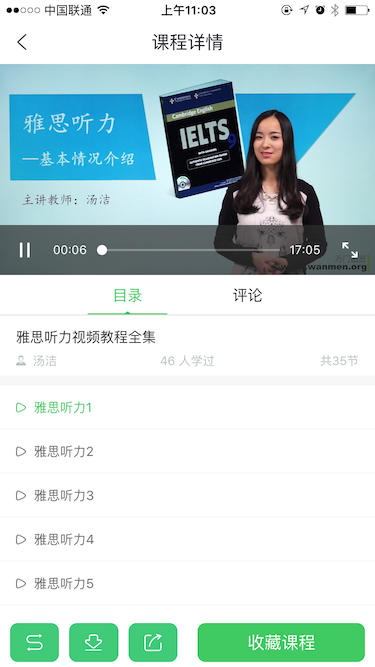
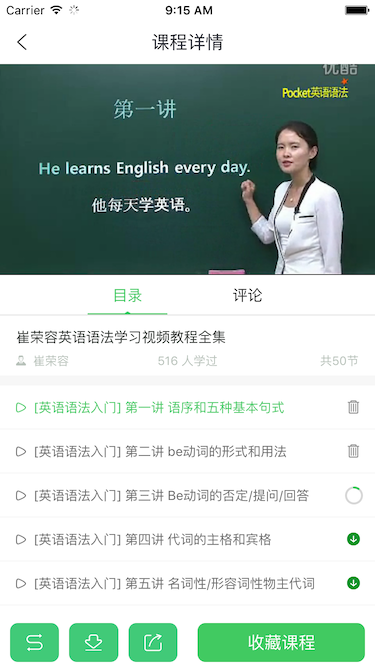
更新配图

diff --git a/README.md b/README.md
@@ -58,11 +58,11 @@
 
 ![image](https://github.com/6ag/EnglishCommunity-swift/blob/master/Show/category.PNG)
 
-### 播放列表，封装B站开源框架ijkplayer
+### 播放列表，支持本地缓存，离线学习
 
 ![image](https://github.com/6ag/EnglishCommunity-swift/blob/master/Show/playlist.PNG)
 
-### 视频下载 目前还没实现，视频不是我的。。
+### 视频下载
 
 ![image](https://github.com/6ag/EnglishCommunity-swift/blob/master/Show/download.PNG)
 
